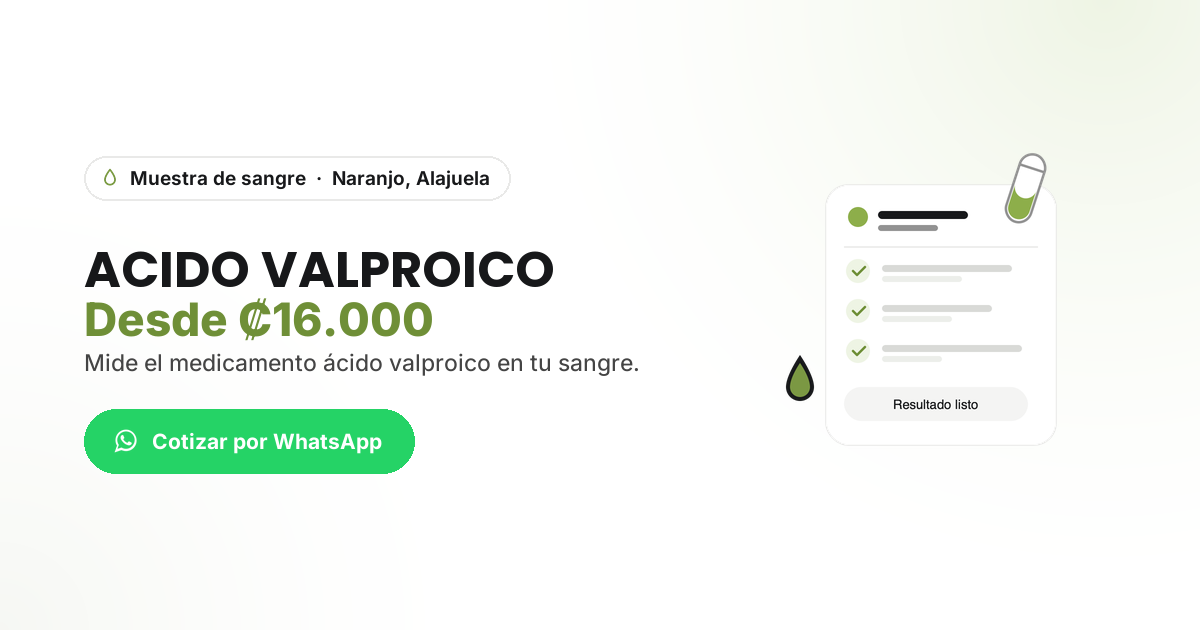
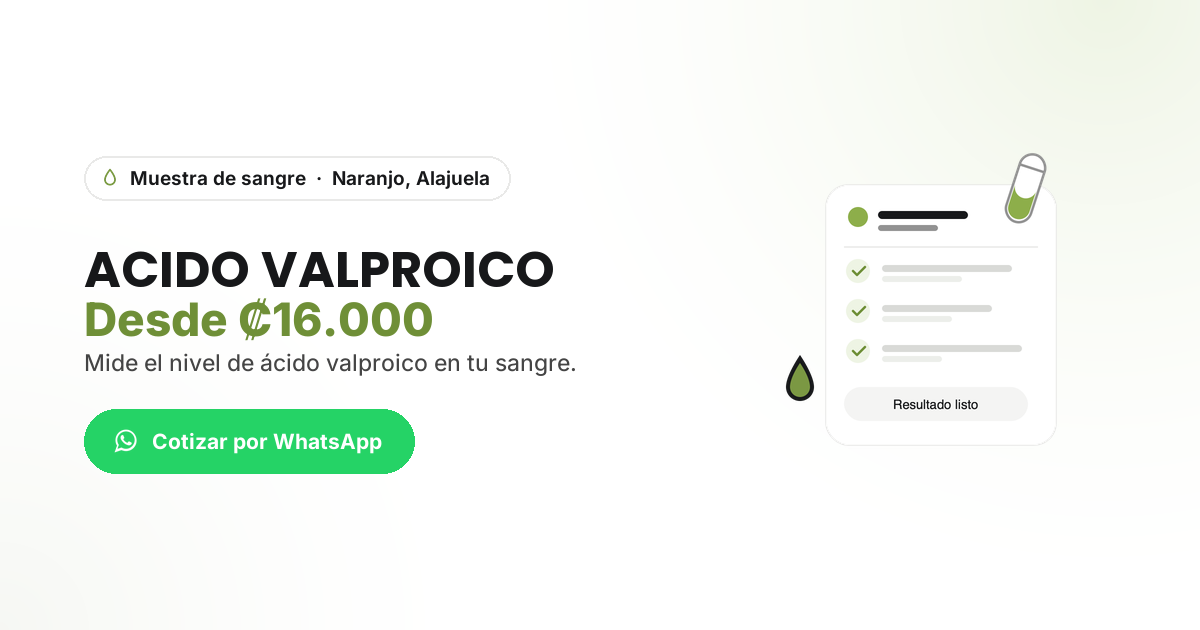
Quitar lenguaje de "medicamento"/tratamiento y "sustancias de abuso"
Google Ads marcó la cuenta pidiendo certificación de "healthcare
advertising" y ninguna de las 7 categorías del formulario (farmacia,
fabricante farmacéutico, servicios de adicciones, seguros, etc.) le
corresponde a un laboratorio clínico básico. El texto de 5 fichas
coincidía casi textual con dos de esas categorías:

- Litio, Fenitoína, Carbamazepina (Tegretol) y Ácido Valproico decían
  "medicamento [nombre]... usado en el tratamiento de [trastorno
  psiquiátrico/neurológico]" — patrón de "Prescription drug services
  provider". Se reescribe manteniendo la info clínica real (monitoreo
  de nivel terapéutico) sin nombrar la condición ni la palabra
  "medicamento".
- Paquete Drogas decía "sustancias de abuso" — patrón de "Addiction
  Services Provider". Se reescribe como panel de detección, sin la
  palabra "abuso".

No se tocó el nombre de ningún examen (ni el de Carbamazepina/Tegretol,
que se deja así a propósito) ni el schema.org Product/Offer — quedan
fuera de este cambio.

Changed region(s): [[0.1542, 0.5429, 0.5242, 0.6032]]

diff --git a/examenes/paquete-drogas/index.html b/examenes/paquete-drogas/index.html
@@ -4,7 +4,7 @@
 <meta charset="UTF-8">
 <meta name="viewport" content="width=device-width, initial-scale=1, viewport-fit=cover">
 <title>PAQUETE DROGAS — Precio y detalle | LabServices Naranjo</title>
-<meta name="description" content="PAQUETE DROGAS: ₡25.000. Tamizaje de sustancias de abuso en orina. Laboratorio clínico en Naranjo, Alajuela. Cotizá por WhatsApp.">
+<meta name="description" content="PAQUETE DROGAS: ₡25.000. Detecta el consumo reciente de varias sustancias en una muestra de orina. Laboratorio clínico en Naranjo, Alajuela. Cotizá por WhatsApp.">
 <meta name="robots" content="index, follow">
 <link rel="canonical" href="https://labservicecr.com/examenes/paquete-drogas/">
 
@@ -12,7 +12,7 @@
 <meta property="og:type" content="website">
 <meta property="og:url" content="https://labservicecr.com/examenes/paquete-drogas/">
 <meta property="og:title" content="PAQUETE DROGAS — Precio y detalle | LabServices Naranjo">
-<meta property="og:description" content="PAQUETE DROGAS: ₡25.000. Tamizaje de sustancias de abuso en orina. Laboratorio clínico en Naranjo, Alajuela. Cotizá por WhatsApp.">
+<meta property="og:description" content="PAQUETE DROGAS: ₡25.000. Detecta el consumo reciente de varias sustancias en una muestra de orina. Laboratorio clínico en Naranjo, Alajuela. Cotizá por WhatsApp.">
 <meta property="og:image" content="https://labservicecr.com/assets/og/examenes/paquete-drogas.png">
 <meta property="og:locale" content="es_CR">
 
@@ -39,7 +39,7 @@
   "@context": "https://schema.org",
   "@type": "Product",
   "name": "PAQUETE DROGAS",
-  "description": "Panel de tamizaje que detecta en una sola muestra de orina el consumo reciente de varias sustancias de abuso comunes. Se usa en contextos laborales, deportivos, legales o simplemente por tranquilidad personal o familiar.",
+  "description": "Panel que detecta en una sola muestra de orina el uso reciente de varias sustancias comunes (marihuana, cocaína, entre otras). Se usa en contextos laborales, deportivos, legales o simplemente por tranquilidad personal o familiar.",
   "url": "https://labservicecr.com/examenes/paquete-drogas/",
   "offers": {
     "@type": "Offer",
@@ -101,7 +101,7 @@
       </div>
       <div class="examen-info">
         <h1>PAQUETE DROGAS</h1>
-        <p class="examen-resumen">Tamizaje de sustancias de abuso en orina.</p>
+        <p class="examen-resumen">Detecta el consumo reciente de varias sustancias en una muestra de orina.</p>
         <div class="examen-precio-wrap">
           <span class="examen-precio">₡25.000</span>
           <span class="examen-precio-nota">Precio referencial, incluye impuestos</span>
@@ -124,7 +124,7 @@
     <div class="container examen-detalle-layout">
       <div class="examen-descripcion">
         <h2>¿Qué es y para qué sirve?</h2>
-        <p>Panel de tamizaje que detecta en una sola muestra de orina el consumo reciente de varias sustancias de abuso comunes. Se usa en contextos laborales, deportivos, legales o simplemente por tranquilidad personal o familiar.</p>
+        <p>Panel que detecta en una sola muestra de orina el uso reciente de varias sustancias comunes (marihuana, cocaína, entre otras). Se usa en contextos laborales, deportivos, legales o simplemente por tranquilidad personal o familiar.</p>
         <p class="examen-legal">
           Precio referencial en colones, sujeto a cambio sin previo aviso. No constituye indicación médica.
           Algunos exámenes requieren orden médica y agendar cita previa.

diff --git a/examenes/carbamazepina-tegretol/index.html b/examenes/carbamazepina-tegretol/index.html
@@ -4,7 +4,7 @@
 <meta charset="UTF-8">
 <meta name="viewport" content="width=device-width, initial-scale=1, viewport-fit=cover">
 <title>CARBAMAZEPINA (TEGRETOL) — Precio y detalle | LabServices Naranjo</title>
-<meta name="description" content="CARBAMAZEPINA (TEGRETOL): ₡15.500. Mide el medicamento carbamazepina en tu sangre. Laboratorio clínico en Naranjo, Alajuela. Cotizá por WhatsApp.">
+<meta name="description" content="CARBAMAZEPINA (TEGRETOL): ₡15.500. Mide el nivel de carbamazepina en tu sangre. Laboratorio clínico en Naranjo, Alajuela. Cotizá por WhatsApp.">
 <meta name="robots" content="index, follow">
 <link rel="canonical" href="https://labservicecr.com/examenes/carbamazepina-tegretol/">
 
@@ -12,7 +12,7 @@
 <meta property="og:type" content="website">
 <meta property="og:url" content="https://labservicecr.com/examenes/carbamazepina-tegretol/">
 <meta property="og:title" content="CARBAMAZEPINA (TEGRETOL) — Precio y detalle | LabServices Naranjo">
-<meta property="og:description" content="CARBAMAZEPINA (TEGRETOL): ₡15.500. Mide el medicamento carbamazepina en tu sangre. Laboratorio clínico en Naranjo, Alajuela. Cotizá por WhatsApp.">
+<meta property="og:description" content="CARBAMAZEPINA (TEGRETOL): ₡15.500. Mide el nivel de carbamazepina en tu sangre. Laboratorio clínico en Naranjo, Alajuela. Cotizá por WhatsApp.">
 <meta property="og:image" content="https://labservicecr.com/assets/og/examenes/carbamazepina-tegretol.png">
 <meta property="og:locale" content="es_CR">
 
@@ -39,7 +39,7 @@
   "@context": "https://schema.org",
   "@type": "Product",
   "name": "CARBAMAZEPINA (TEGRETOL)",
-  "description": "Mide el nivel del medicamento carbamazepina en tu sangre, usado en epilepsia y otros trastornos neurológicos, para ajustar la dosis y evitar toxicidad.",
+  "description": "Mide el nivel de carbamazepina en tu sangre para dar seguimiento a un tratamiento ya indicado por tu médico, ayudando a mantenerlo dentro del rango terapéutico y evitar niveles tóxicos.",
   "url": "https://labservicecr.com/examenes/carbamazepina-tegretol/",
   "offers": {
     "@type": "Offer",
@@ -101,7 +101,7 @@
       </div>
       <div class="examen-info">
         <h1>CARBAMAZEPINA (TEGRETOL)</h1>
-        <p class="examen-resumen">Mide el medicamento carbamazepina en tu sangre.</p>
+        <p class="examen-resumen">Mide el nivel de carbamazepina en tu sangre.</p>
         <div class="examen-precio-wrap">
           <span class="examen-precio">₡15.500</span>
           <span class="examen-precio-nota">Precio referencial, incluye impuestos</span>
@@ -124,7 +124,7 @@
     <div class="container examen-detalle-layout">
       <div class="examen-descripcion">
         <h2>¿Qué es y para qué sirve?</h2>
-        <p>Mide el nivel del medicamento carbamazepina en tu sangre, usado en epilepsia y otros trastornos neurológicos, para ajustar la dosis y evitar toxicidad.</p>
+        <p>Mide el nivel de carbamazepina en tu sangre para dar seguimiento a un tratamiento ya indicado por tu médico, ayudando a mantenerlo dentro del rango terapéutico y evitar niveles tóxicos.</p>
         <p class="examen-legal">
           Precio referencial en colones, sujeto a cambio sin previo aviso. No constituye indicación médica.
           Algunos exámenes requieren orden médica y agendar cita previa.

diff --git a/examenes/acido-valproico/index.html b/examenes/acido-valproico/index.html
@@ -4,7 +4,7 @@
 <meta charset="UTF-8">
 <meta name="viewport" content="width=device-width, initial-scale=1, viewport-fit=cover">
 <title>ACIDO VALPROICO — Precio y detalle | LabServices Naranjo</title>
-<meta name="description" content="ACIDO VALPROICO: ₡16.000. Mide el medicamento ácido valproico en tu sangre. Laboratorio clínico en Naranjo, Alajuela. Cotizá por WhatsApp.">
+<meta name="description" content="ACIDO VALPROICO: ₡16.000. Mide el nivel de ácido valproico en tu sangre. Laboratorio clínico en Naranjo, Alajuela. Cotizá por WhatsApp.">
 <meta name="robots" content="index, follow">
 <link rel="canonical" href="https://labservicecr.com/examenes/acido-valproico/">
 
@@ -12,7 +12,7 @@
 <meta property="og:type" content="website">
 <meta property="og:url" content="https://labservicecr.com/examenes/acido-valproico/">
 <meta property="og:title" content="ACIDO VALPROICO — Precio y detalle | LabServices Naranjo">
-<meta property="og:description" content="ACIDO VALPROICO: ₡16.000. Mide el medicamento ácido valproico en tu sangre. Laboratorio clínico en Naranjo, Alajuela. Cotizá por WhatsApp.">
+<meta property="og:description" content="ACIDO VALPROICO: ₡16.000. Mide el nivel de ácido valproico en tu sangre. Laboratorio clínico en Naranjo, Alajuela. Cotizá por WhatsApp.">
 <meta property="og:image" content="https://labservicecr.com/assets/og/examenes/acido-valproico.png">
 <meta property="og:locale" content="es_CR">
 
@@ -39,7 +39,7 @@
   "@context": "https://schema.org",
   "@type": "Product",
   "name": "ACIDO VALPROICO",
-  "description": "Mide el nivel del medicamento ácido valproico en tu sangre, usado para el tratamiento de epilepsia y trastornos del ánimo, con el fin de ajustar la dosis y evitar toxicidad.",
+  "description": "Mide el nivel de ácido valproico en tu sangre para dar seguimiento a un tratamiento ya indicado por tu médico, ayudando a mantenerlo dentro del rango terapéutico y evitar niveles tóxicos.",
   "url": "https://labservicecr.com/examenes/acido-valproico/",
   "offers": {
     "@type": "Offer",
@@ -101,7 +101,7 @@
       </div>
       <div class="examen-info">
         <h1>ACIDO VALPROICO</h1>
-        <p class="examen-resumen">Mide el medicamento ácido valproico en tu sangre.</p>
+        <p class="examen-resumen">Mide el nivel de ácido valproico en tu sangre.</p>
         <div class="examen-precio-wrap">
           <span class="examen-precio">₡16.000</span>
           <span class="examen-precio-nota">Precio referencial, incluye impuestos</span>
@@ -124,7 +124,7 @@
     <div class="container examen-detalle-layout">
       <div class="examen-descripcion">
         <h2>¿Qué es y para qué sirve?</h2>
-        <p>Mide el nivel del medicamento ácido valproico en tu sangre, usado para el tratamiento de epilepsia y trastornos del ánimo, con el fin de ajustar la dosis y evitar toxicidad.</p>
+        <p>Mide el nivel de ácido valproico en tu sangre para dar seguimiento a un tratamiento ya indicado por tu médico, ayudando a mantenerlo dentro del rango terapéutico y evitar niveles tóxicos.</p>
         <p class="examen-legal">
           Precio referencial en colones, sujeto a cambio sin previo aviso. No constituye indicación médica.
           Algunos exámenes requieren orden médica y agendar cita previa.

diff --git a/examenes/fenitoina/index.html b/examenes/fenitoina/index.html
@@ -4,7 +4,7 @@
 <meta charset="UTF-8">
 <meta name="viewport" content="width=device-width, initial-scale=1, viewport-fit=cover">
 <title>Fenitoina — Precio y detalle | LabServices Naranjo</title>
-<meta name="description" content="Fenitoina: ₡15.000. Mide el medicamento fenitoína en tu sangre. Laboratorio clínico en Naranjo, Alajuela. Cotizá por WhatsApp.">
+<meta name="description" content="Fenitoina: ₡15.000. Mide el nivel de fenitoína en tu sangre. Laboratorio clínico en Naranjo, Alajuela. Cotizá por WhatsApp.">
 <meta name="robots" content="index, follow">
 <link rel="canonical" href="https://labservicecr.com/examenes/fenitoina/">
 
@@ -12,7 +12,7 @@
 <meta property="og:type" content="website">
 <meta property="og:url" content="https://labservicecr.com/examenes/fenitoina/">
 <meta property="og:title" content="Fenitoina — Precio y detalle | LabServices Naranjo">
-<meta property="og:description" content="Fenitoina: ₡15.000. Mide el medicamento fenitoína en tu sangre. Laboratorio clínico en Naranjo, Alajuela. Cotizá por WhatsApp.">
+<meta property="og:description" content="Fenitoina: ₡15.000. Mide el nivel de fenitoína en tu sangre. Laboratorio clínico en Naranjo, Alajuela. Cotizá por WhatsApp.">
 <meta property="og:image" content="https://labservicecr.com/assets/og/examenes/fenitoina.png">
 <meta property="og:locale" content="es_CR">
 
@@ -39,7 +39,7 @@
   "@context": "https://schema.org",
   "@type": "Product",
   "name": "Fenitoina",
-  "description": "Mide el nivel del medicamento fenitoína en tu sangre, usado en el tratamiento de la epilepsia, para ajustar la dosis y evitar toxicidad.",
+  "description": "Mide el nivel de fenitoína en tu sangre para dar seguimiento a un tratamiento ya indicado por tu médico, ayudando a mantenerlo dentro del rango terapéutico y evitar niveles tóxicos.",
   "url": "https://labservicecr.com/examenes/fenitoina/",
   "offers": {
     "@type": "Offer",
@@ -101,7 +101,7 @@
       </div>
       <div class="examen-info">
         <h1>Fenitoina</h1>
-        <p class="examen-resumen">Mide el medicamento fenitoína en tu sangre.</p>
+        <p class="examen-resumen">Mide el nivel de fenitoína en tu sangre.</p>
         <div class="examen-precio-wrap">
           <span class="examen-precio">₡15.000</span>
           <span class="examen-precio-nota">Precio referencial, incluye impuestos</span>
@@ -124,7 +124,7 @@
     <div class="container examen-detalle-layout">
       <div class="examen-descripcion">
         <h2>¿Qué es y para qué sirve?</h2>
-        <p>Mide el nivel del medicamento fenitoína en tu sangre, usado en el tratamiento de la epilepsia, para ajustar la dosis y evitar toxicidad.</p>
+        <p>Mide el nivel de fenitoína en tu sangre para dar seguimiento a un tratamiento ya indicado por tu médico, ayudando a mantenerlo dentro del rango terapéutico y evitar niveles tóxicos.</p>
         <p class="examen-legal">
           Precio referencial en colones, sujeto a cambio sin previo aviso. No constituye indicación médica.
           Algunos exámenes requieren orden médica y agendar cita previa.

diff --git a/examenes/litio/index.html b/examenes/litio/index.html
@@ -4,7 +4,7 @@
 <meta charset="UTF-8">
 <meta name="viewport" content="width=device-width, initial-scale=1, viewport-fit=cover">
 <title>LITIO — Precio y detalle | LabServices Naranjo</title>
-<meta name="description" content="LITIO: ₡16.000. Mide el medicamento litio en tu sangre. Laboratorio clínico en Naranjo, Alajuela. Cotizá por WhatsApp.">
+<meta name="description" content="LITIO: ₡16.000. Mide el nivel de litio en tu sangre. Laboratorio clínico en Naranjo, Alajuela. Cotizá por WhatsApp.">
 <meta name="robots" content="index, follow">
 <link rel="canonical" href="https://labservicecr.com/examenes/litio/">
 
@@ -12,7 +12,7 @@
 <meta property="og:type" content="website">
 <meta property="og:url" content="https://labservicecr.com/examenes/litio/">
 <meta property="og:title" content="LITIO — Precio y detalle | LabServices Naranjo">
-<meta property="og:description" content="LITIO: ₡16.000. Mide el medicamento litio en tu sangre. Laboratorio clínico en Naranjo, Alajuela. Cotizá por WhatsApp.">
+<meta property="og:description" content="LITIO: ₡16.000. Mide el nivel de litio en tu sangre. Laboratorio clínico en Naranjo, Alajuela. Cotizá por WhatsApp.">
 <meta property="og:image" content="https://labservicecr.com/assets/og/examenes/litio.png">
 <meta property="og:locale" content="es_CR">
 
@@ -39,7 +39,7 @@
   "@context": "https://schema.org",
   "@type": "Product",
   "name": "LITIO",
-  "description": "Mide el nivel del medicamento litio en tu sangre, usado en el tratamiento del trastorno bipolar, para ajustar la dosis y evitar toxicidad.",
+  "description": "Mide el nivel de litio en tu sangre para dar seguimiento a un tratamiento ya indicado por tu médico, ayudando a mantenerlo dentro del rango terapéutico y evitar niveles tóxicos.",
   "url": "https://labservicecr.com/examenes/litio/",
   "offers": {
     "@type": "Offer",
@@ -101,7 +101,7 @@
       </div>
       <div class="examen-info">
         <h1>LITIO</h1>
-        <p class="examen-resumen">Mide el medicamento litio en tu sangre.</p>
+        <p class="examen-resumen">Mide el nivel de litio en tu sangre.</p>
         <div class="examen-precio-wrap">
           <span class="examen-precio">₡16.000</span>
           <span class="examen-precio-nota">Precio referencial, incluye impuestos</span>
@@ -124,7 +124,7 @@
     <div class="container examen-detalle-layout">
       <div class="examen-descripcion">
         <h2>¿Qué es y para qué sirve?</h2>
-        <p>Mide el nivel del medicamento litio en tu sangre, usado en el tratamiento del trastorno bipolar, para ajustar la dosis y evitar toxicidad.</p>
+        <p>Mide el nivel de litio en tu sangre para dar seguimiento a un tratamiento ya indicado por tu médico, ayudando a mantenerlo dentro del rango terapéutico y evitar niveles tóxicos.</p>
         <p class="examen-legal">
           Precio referencial en colones, sujeto a cambio sin previo aviso. No constituye indicación médica.
           Algunos exámenes requieren orden médica y agendar cita previa.
